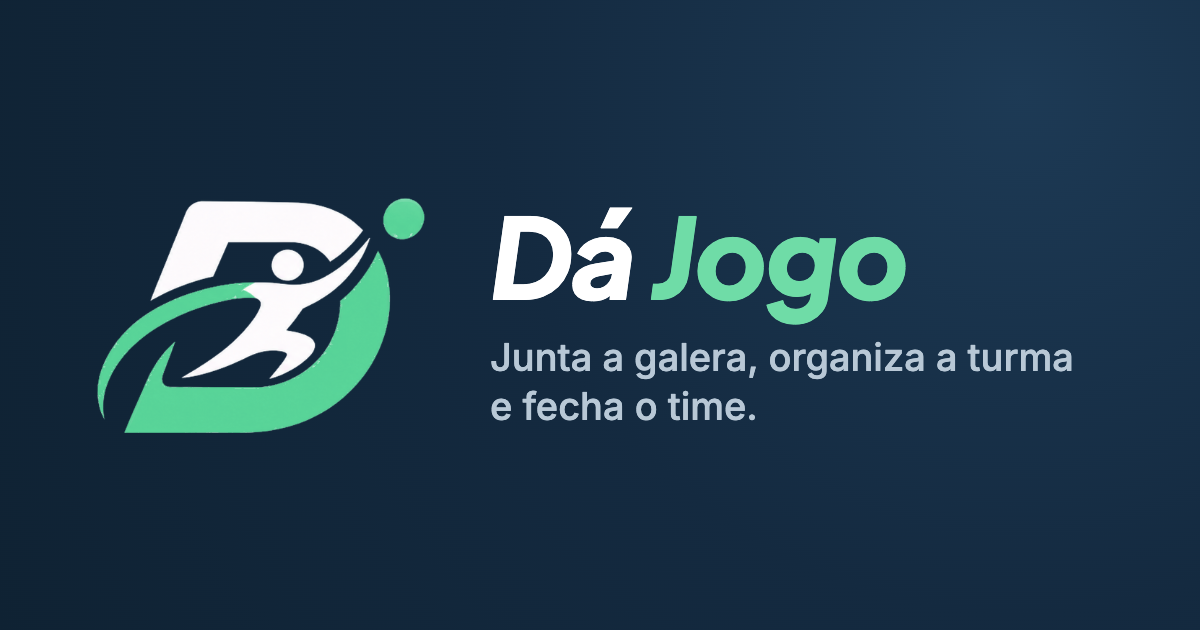
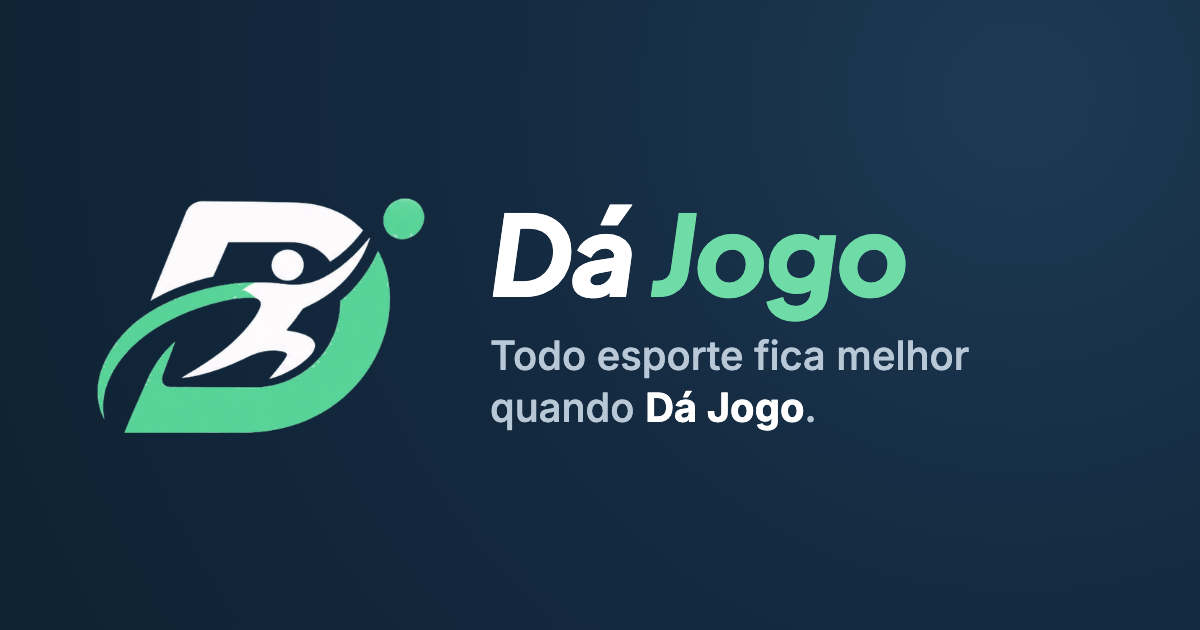
feat: slogan "Todo esporte fica melhor quando Dá Jogo"
Tela de boas-vindas, prévia do link (og-image ?v=3), descrição do app
instalado, README e design system. Decisão U24.

diff --git a/index.html b/index.html
@@ -3,7 +3,7 @@
   <head>
     <meta charset="UTF-8" />
     <meta name="viewport" content="width=device-width, initial-scale=1, viewport-fit=cover" />
-    <meta name="description" content="Dá Jogo — junta a galera, organiza a turma e fecha o time." />
+    <meta name="description" content="Todo esporte fica melhor quando Dá Jogo. Lista, Pix e times sorteados num lugar só." />
     <meta name="theme-color" content="#f4f6f8" />
     <title>Dá Jogo</title>
 
@@ -20,15 +20,15 @@
     <meta property="og:site_name" content="Dá Jogo" />
     <meta property="og:locale" content="pt_BR" />
     <meta property="og:title" content="Dá Jogo" />
-    <meta property="og:description" content="Junta a galera, organiza a turma e fecha o time." />
+    <meta property="og:description" content="Todo esporte fica melhor quando Dá Jogo. Lista, Pix e times sorteados num lugar só." />
     <meta property="og:url" content="%VITE_APP_URL%/" />
-    <meta property="og:image" content="%VITE_APP_URL%/og-image.png?v=2" />
+    <meta property="og:image" content="%VITE_APP_URL%/og-image.png?v=3" />
     <meta property="og:image:type" content="image/png" />
     <meta property="og:image:width" content="1200" />
     <meta property="og:image:height" content="630" />
-    <meta property="og:image:alt" content="Símbolo do Dá Jogo e a frase: junta a galera, organiza a turma e fecha o time." />
+    <meta property="og:image:alt" content="Símbolo do Dá Jogo e o slogan: Todo esporte fica melhor quando Dá Jogo." />
     <meta name="twitter:card" content="summary_large_image" />
-    <meta name="twitter:image" content="%VITE_APP_URL%/og-image.png?v=2" />
+    <meta name="twitter:image" content="%VITE_APP_URL%/og-image.png?v=3" />
 
     <!-- Instalado na tela inicial (iOS) -->
     <meta name="mobile-web-app-capable" content="yes" />

diff --git a/src/pages/LoginPhonePage/LoginPhonePage.tsx b/src/pages/LoginPhonePage/LoginPhonePage.tsx
@@ -32,9 +32,15 @@ export function LoginPhonePage() {
           <BrandLogo size="lg" />
           <div className={styles.hero}>
             <h1 className={styles.title}>
-              {invite ? 'Falta pouco para entrar na turma.' : 'Seu jogo organizado, do convite ao placar.'}
+              {invite ? (
+                'Falta pouco para entrar na turma.'
+              ) : (
+                <>
+                  Todo esporte fica melhor quando <span className={styles.brand}>Dá{'\u00a0'}Jogo</span>.
+                </>
+              )}
             </h1>
-            <p className={styles.lead}>Para qualquer esporte: vôlei, futebol, beach tennis, basquete…</p>
+            <p className={styles.lead}>Lista, Pix e times sorteados num lugar só, do convite ao placar.</p>
           </div>
           <ul className={styles.highlights}>
             {HIGHLIGHTS.map(({ icon: Icon, title, detail }) => (

diff --git a/vite.config.ts b/vite.config.ts
@@ -27,7 +27,7 @@ export default defineConfig(({ command, isPreview }) => {
           id: base,
           name: 'Dá Jogo',
           short_name: 'Dá Jogo',
-          description: 'Junta a galera, organiza a turma e fecha o time.',
+          description: 'Todo esporte fica melhor quando Dá Jogo. Lista, Pix e times sorteados num lugar só.',
           lang: 'pt-BR',
           dir: 'ltr',
           start_url: base,

diff --git a/src/pages/LoginPhonePage/LoginPhonePage.module.css b/src/pages/LoginPhonePage/LoginPhonePage.module.css
@@ -20,6 +20,11 @@
   letter-spacing: var(--text-display-tracking);
 }
 
+.brand {
+  color: var(--color-accent-text);
+  white-space: nowrap;
+}
+
 .lead {
   margin: 0;
   color: var(--color-text-muted);

diff --git a/docs/decisions.md b/docs/decisions.md
@@ -100,6 +100,7 @@ Registro das decisões já tomadas. Toda mudança de decisão entra aqui com dat
 | U21 | Modo demonstração em `/demo`, com senha (só o SHA-256 em `VITE_DEMO_PASSWORD_HASH`): o app roda inteiro com os mocks no navegador, numa turma pronta (`src/mocks/demo`), sem conta nem cadastro. Os dados ficam no aparelho por 30 dias (`VITE_DEMO_DAYS`); sair não apaga. O script do worker dos mocks vai sempre no build, mas o código dos mocks só é baixado na demo e fica fora do cache do PWA. A senha é conferida no navegador: barra o acesso casual, não um usuário técnico (a demo não tem dados reais). | 22/11/2026 |
 | U22 | Na demonstração, o organizador adiciona pessoas só pelo nome (posição, nível, tipo e gênero opcionais), sem conta: em Membros e no dia de jogo. Rota só dos mocks (`POST /demo/groups/{id}/players`), fora do contrato da API real; os botões só aparecem com a demo ligada. Pessoa nova entra confirmada no próximo jogo, abrindo uma vaga a mais se estiver cheio (no dia de jogo já vale o RN-101a). | 22/11/2026 |
 | U23 | Fundamentos por modalidade (vôlei: saque, recepção, ataque, levantamento e passe; as outras ainda sem): nota de 1 a 10 por membro, dada pelo organizador e só visível para ele (RN-17a). O nível geral (1 a 5) continua; sem ele, vale a média das notas ÷ 2. No sorteio, "Equilibrar por nível" escolhe entre **Nível geral** e **Fundamentos** (RN-103a): por fundamentos, a soma de cada um fica parecida entre os times, mantendo gênero e posições. O algoritmo faz 30 tentativas e fica com a mais parelha (83% no ótimo em 600 grupos de teste). Contrato: `Sport.skills`, `Member.skills`, `LivePlayer.skills`, `DrawCriteria.levelBy`. | 22/11/2026 |
+| U24 | Slogan novo: **"Todo esporte fica melhor quando Dá Jogo"** (substitui M4, "Junta a galera. Dá jogo."). O app é para qualquer esporte, não só vôlei. | 23/11/2026 |
 
 ## Back-end
 

diff --git a/docs/design-system/README.md b/docs/design-system/README.md
@@ -1,6 +1,6 @@
 # Dá Jogo
 
-**Junta a galera. Dá jogo.** O design system do app que organiza turmas e partidas esportivas, começando pelo vôlei.
+**Todo esporte fica melhor quando Dá Jogo.** O design system do app que organiza turmas e partidas de qualquer esporte.
 
 O Dá Jogo é um PWA pensado primeiro para o celular, na mão de quem está chegando na quadra, mas funciona por completo no desktop, onde o organizador costuma cuidar de presenças e financeiro. Tem tema claro e escuro desde o MVP.
 
@@ -127,7 +127,7 @@ O app usa `100dvh` (não `100vh`) e respeita `env(safe-area-inset-*)` quando ins
 - Não inclinar, contornar, aplicar degradê nem trocar a cor da haste por cores de estado.
 - Os arquivos fonte (SVG do símbolo, logotipo e ícones 192/512/maskable) ficam em `public/brand/` e são gerados na etapa 6 do roadmap. Referência visual: canvas "Nome e escudo do app", página "Dá Jogo".
 
-**Slogan:** "Junta a galera. Dá jogo."
+**Slogan:** "Todo esporte fica melhor quando Dá Jogo." (antes: "Junta a galera. Dá jogo.")
 
 ## Acessibilidade
 

diff --git a/README.md b/README.md
@@ -1,6 +1,6 @@
 # Dá Jogo
 
-PWA para organizar turmas e partidas esportivas: presença, vagas, lista de espera, pagamentos, caixa e sorteio de times. Começa pelo vôlei. *Junta a galera. Dá jogo.*
+PWA para organizar turmas e partidas esportivas: presença, vagas, lista de espera, pagamentos, caixa e sorteio de times. Para qualquer esporte. *Todo esporte fica melhor quando Dá Jogo.*
 
 ## Requisitos
 
